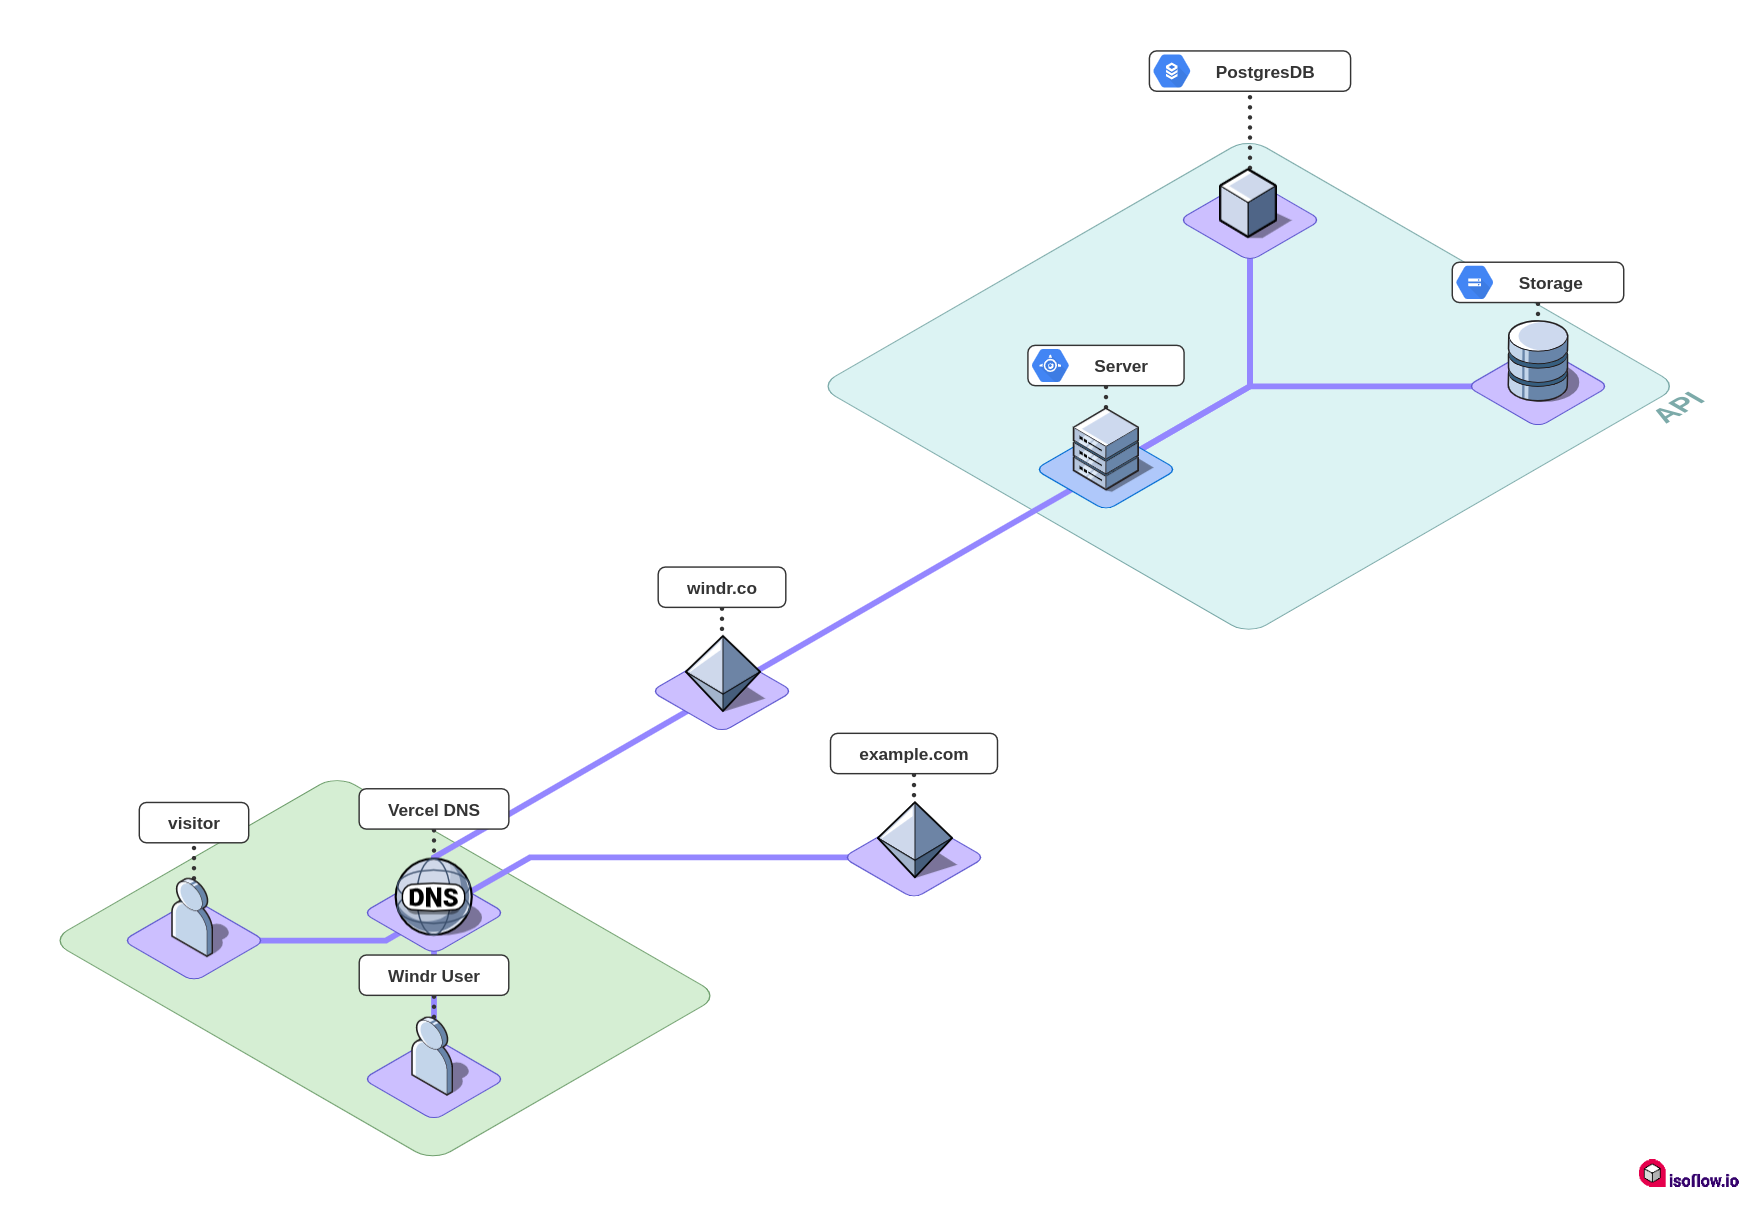
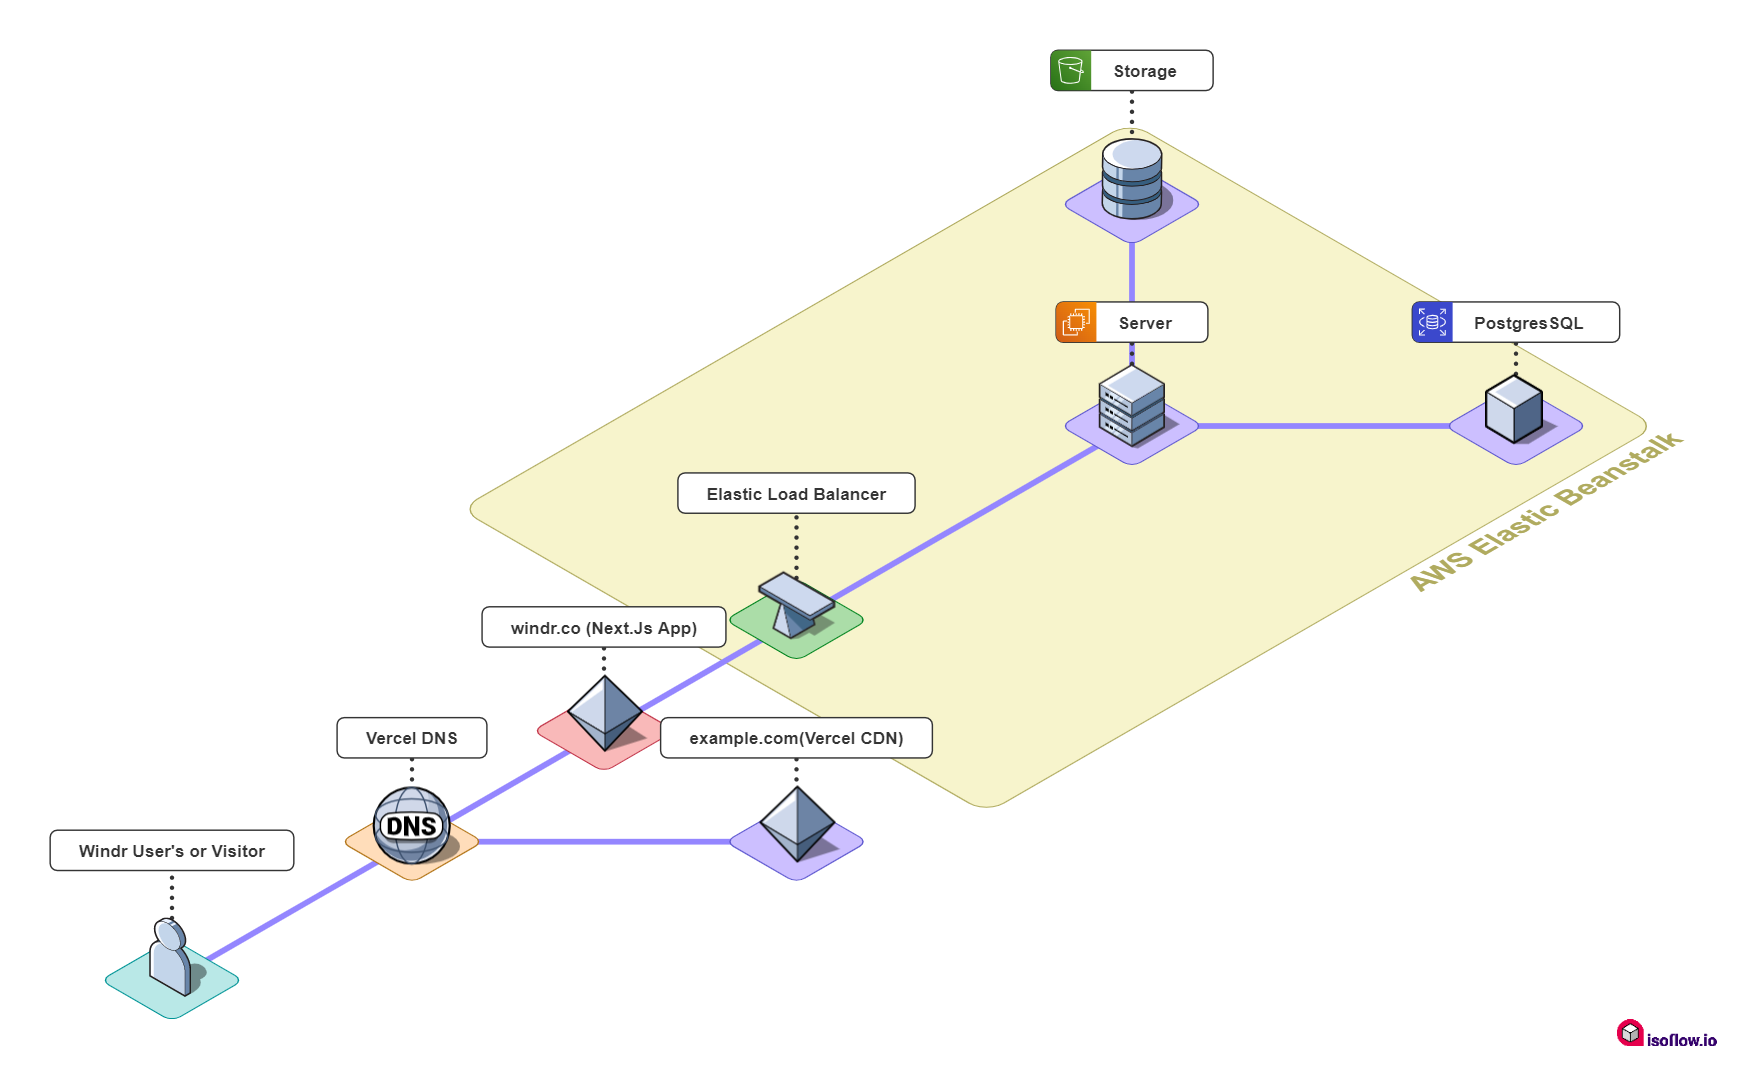
Update Readme with new request-flow image

diff --git a/readme.md b/readme.md
@@ -25,7 +25,7 @@ Windr was starting as side project (side hustle), basically it likes medium.com 
 
 - AWS IAM
 - AWS S3
-- AWS ECR ()
+- Route 53
 - AWS Elastic Container Registry (ECR)
 - AWS Relational Database (RDS) PostgresSql
 - AWS Elastic Load Balancer (Classic)
@@ -46,6 +46,6 @@ Windr was starting as side project (side hustle), basically it likes medium.com 
 
 ## Overview of request life cycle
 
-> Note: the diagram missing the revers proxy as Load Balancer and Nginx as proxy before server instance
+> Note: the diagram missing resource Elastic Container Registry (ECR) and S3 Bucket which they are used to deploy new docker image in Elastic Beanstalk
 
 ![Request Life Cycle](/assets/request-flow.png "Request Life Cycle")
